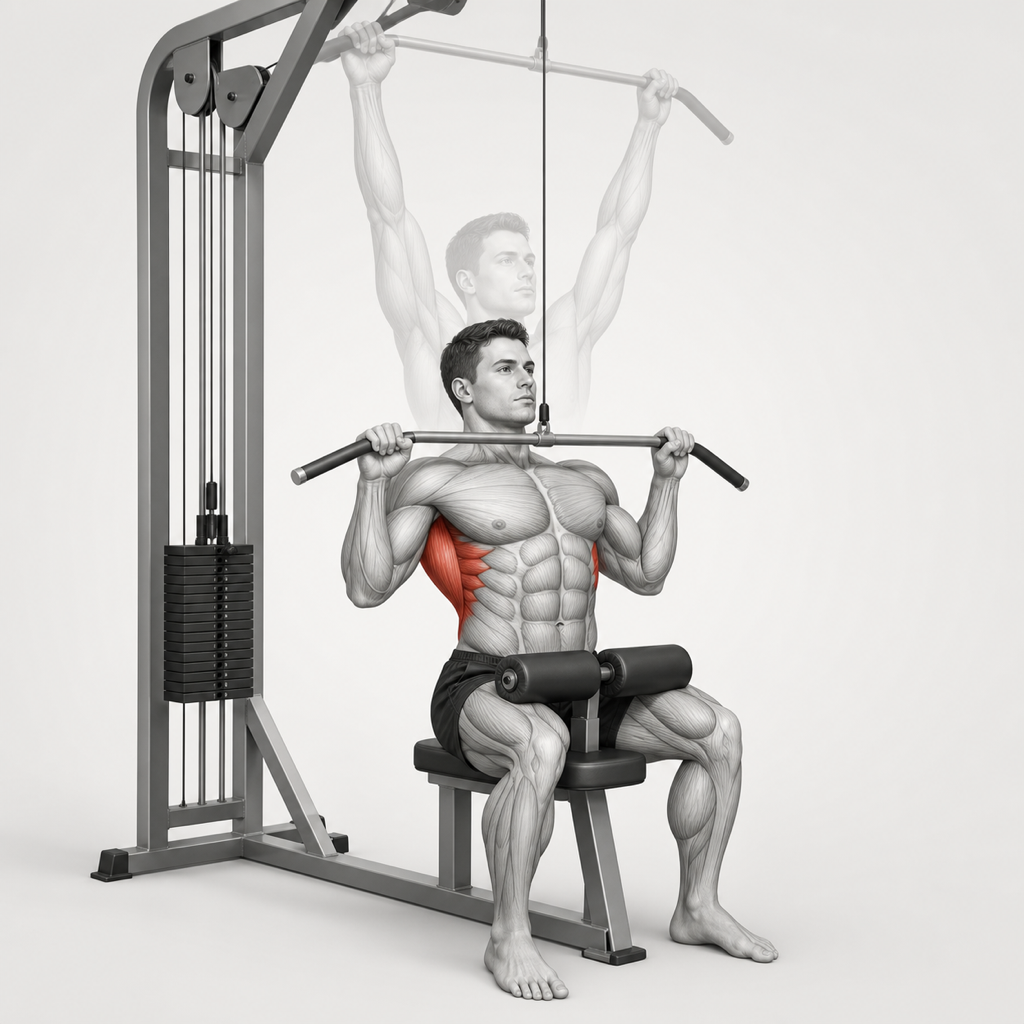
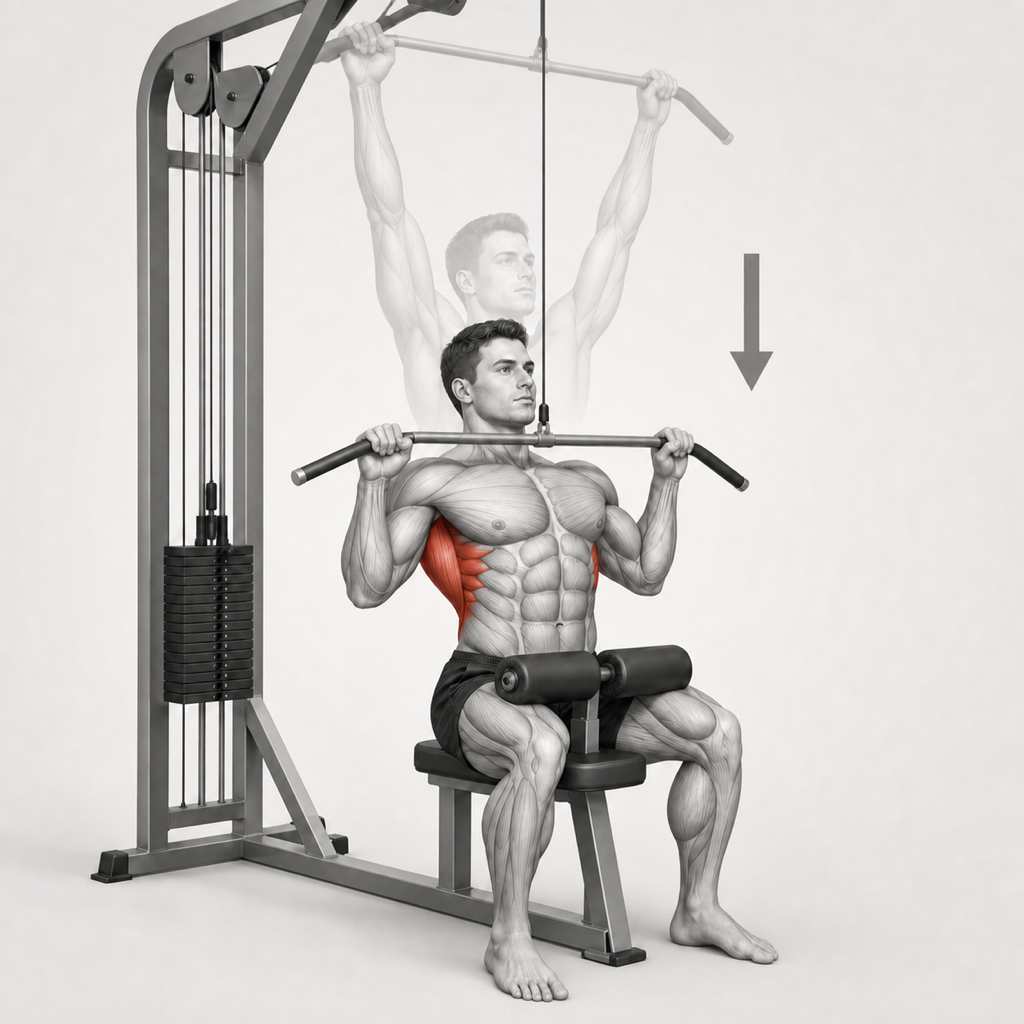
fix: add lat pulldown movement arrow

diff --git a/.superpowers/sdd/2026-08-14-trackz-02-exercise-catalog-media/task-5-report.md b/.superpowers/sdd/2026-08-14-trackz-02-exercise-catalog-media/task-5-report.md
@@ -73,3 +73,13 @@ All three are original, built-in `imagegen` Draft outputs. The original generate
 - `dotnet test tests/TrackZ.Infrastructure.Tests --filter "FullyQualifiedName~ExerciseCatalogManifestTests&Category=Asset" --no-restore --verbosity minimal`: PASS — 1 passed, 0 failed.
 
 The asset remains `Draft`; no review, anatomy approval, rights approval, reviewer, timestamp, or publication state was created.
+
+## Round 3/5 — Lat Pulldown restrained movement-arrow edit
+
+- Built-in `imagegen` edited only `assets/exercises/images/lat-pulldown.png`, using that local Draft asset as the reference. The retained edit output is `/Users/mikeyoshino/.codex/generated_images/01a00440-d8c1-7961-b4d6-2be3f8faa8d8/exec-79dca7a6-5dd1-4fe4-bfe7-49881d4a4505.png`.
+- Actual edit prompt: add only one subtle dark-gray downward movement arrow in clear right-side background space, from the ghosted overhead start toward the solid upper-chest finish; preserve the athlete, anatomy colors, machine, pads, ghosted start, and corrected bar path exactly; no overlap with face, bar, cable, joints, target muscles, or equipment; no text, glyphs, letters, numbers, labels, logos, or watermarks.
+- Direct original-detail inspection accepted the output: the sole arrow is in clear upper-right background space, and the finished bar remains entirely in front of the head and neck, below the chin at the upper chest/clavicle. The ghosted overhead start, vertical cable, face, red lats, equipment, and thigh pads are unchanged; no text or glyphs are present.
+- `sips -z 1024 1024` wrote the accepted output to the stable Draft file, then `assets/exercises/contact-sheet.png` was rebuilt in manifest order (8 columns × 6 rows).
+- `dotnet test tests/TrackZ.Infrastructure.Tests --filter "FullyQualifiedName~ExerciseCatalogManifestTests&Category=Asset" --no-restore --verbosity minimal`: PASS — 1 passed, 0 failed.
+
+The asset remains `Draft`; no review, anatomy approval, rights approval, reviewer, timestamp, or publication state was created.
